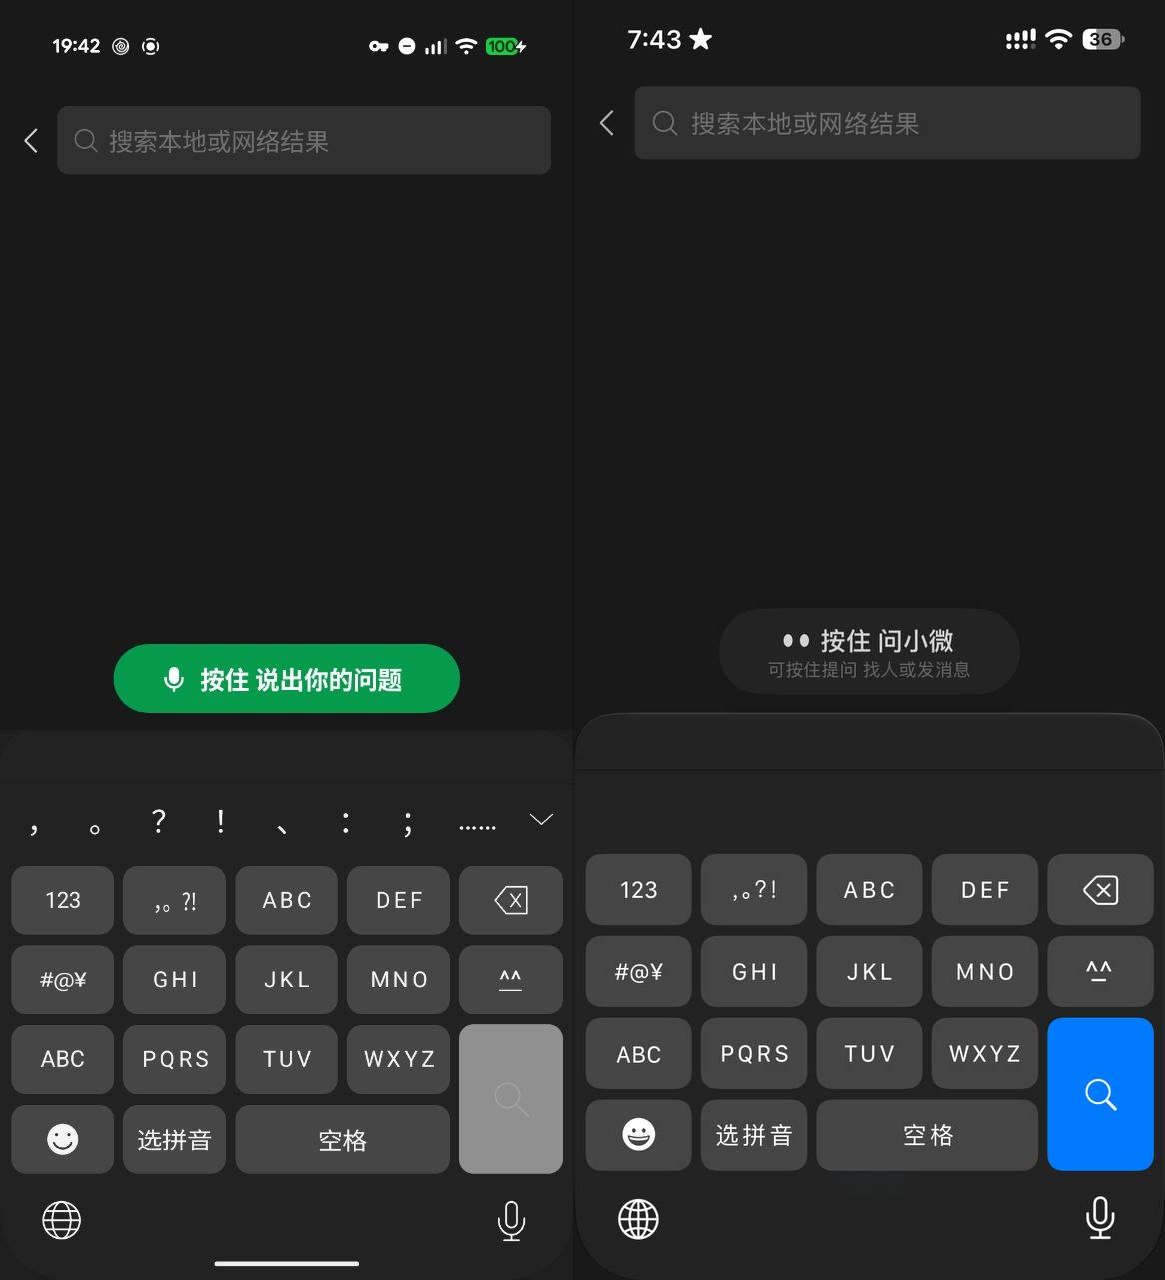
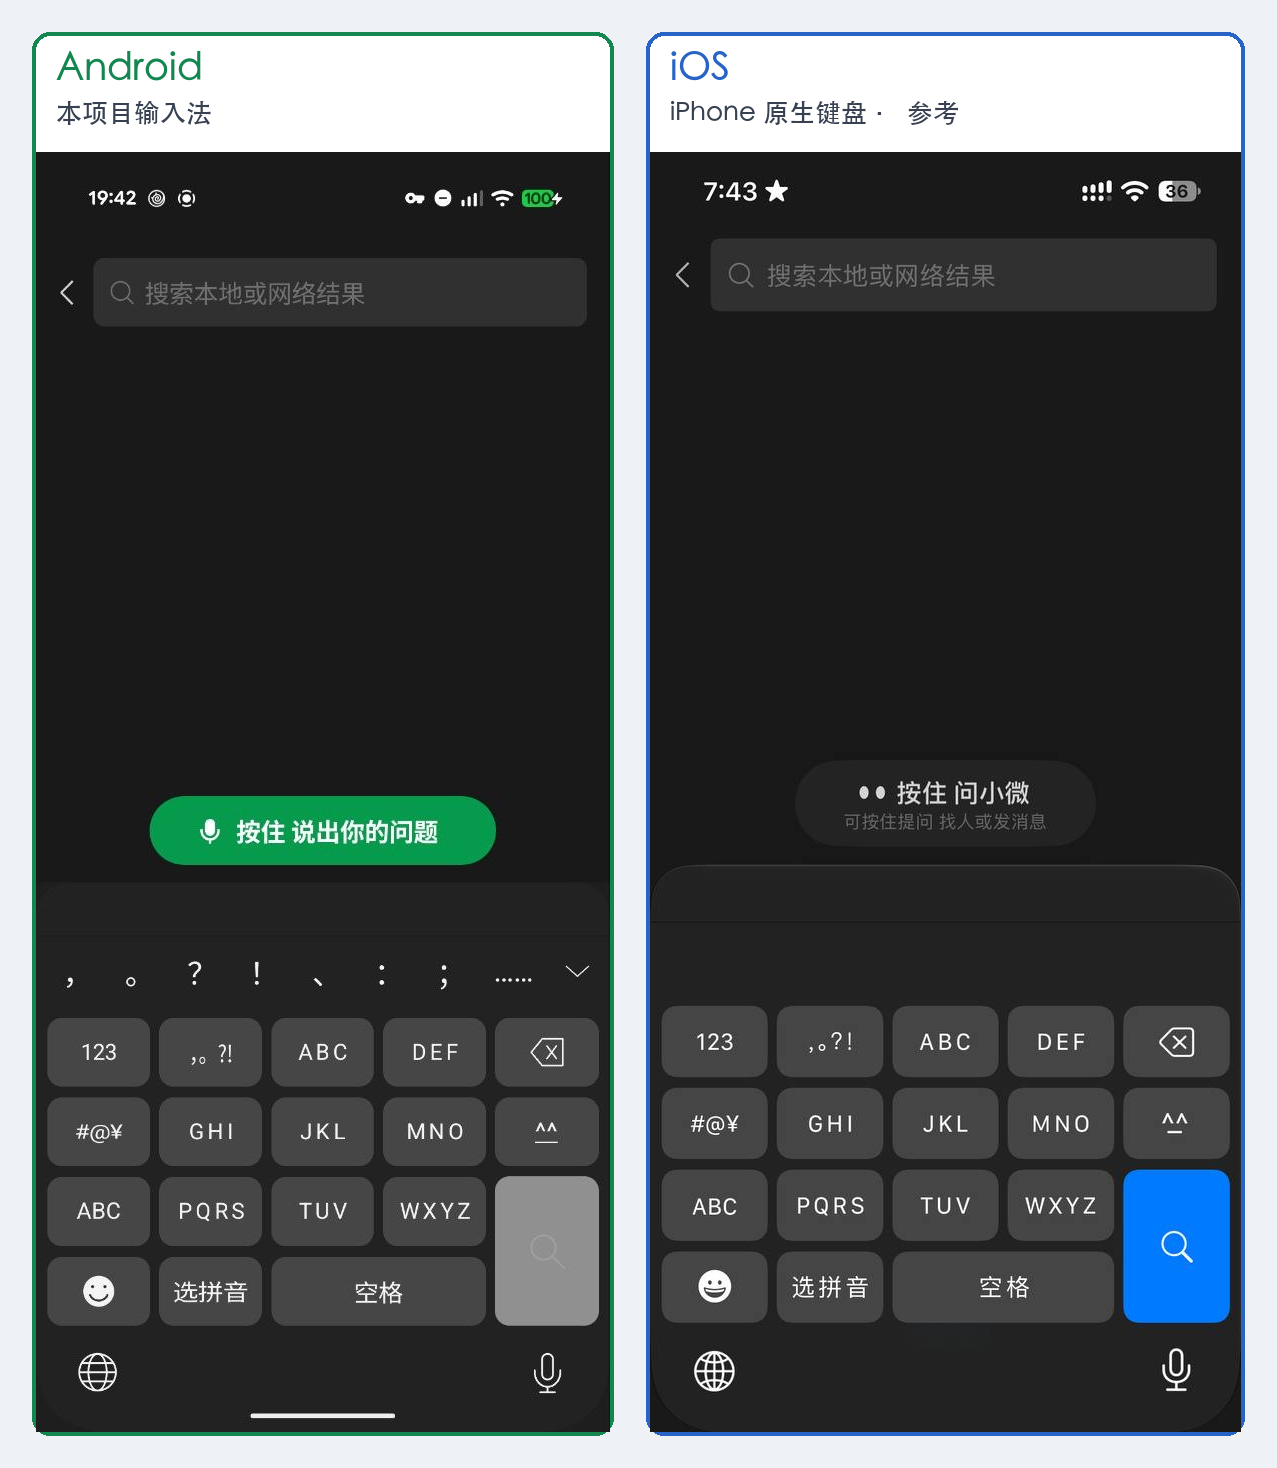
docs: label Android and iOS screenshot comparison

diff --git a/scripts/compose_keyboard_comparison.py b/scripts/compose_keyboard_comparison.py
@@ -1,10 +1,11 @@
 #!/usr/bin/env python3
 # SPDX-License-Identifier: GPL-3.0-or-later
-"""Join the two complete supplied screenshots, Android left and iOS right."""
+"""Frame and label complete screenshots without changing screenshot pixels."""
+import argparse
 import hashlib
 import json
 from pathlib import Path
-from PIL import Image, ImageChops
+from PIL import Image, ImageChops, ImageDraw, ImageFont
 
 ROOT = Path(__file__).resolve().parents[1]
 IMAGES = ROOT / 'docs/images'
@@ -15,25 +16,48 @@ def digest(path):
 
 
 def main():
+    parser = argparse.ArgumentParser(description=__doc__)
+    parser.add_argument('--font', type=Path, required=True, help='Local Chinese-capable font; not bundled')
+    args = parser.parse_args()
+    title_font = ImageFont.truetype(str(args.font), 38)
+    subtitle_font = ImageFont.truetype(str(args.font), 26)
     left_path = IMAGES / 'android-fullscreen.png'
     right_path = IMAGES / 'ios-fullscreen.png'
     left = Image.open(left_path).convert('RGB')
     right = Image.open(right_path).convert('RGB')
     assert left.height == right.height, 'Original screenshots must have equal height; never resize silently'
     hashes = {p.name: digest(p) for p in (left_path, right_path)}
-    canvas = Image.new('RGB', (left.width + right.width, left.height))
-    canvas.paste(left, (0, 0))
-    canvas.paste(right, (left.width, 0))
+    margin, gap, border, header = 32, 32, 4, 116
+    width = margin * 2 + gap + left.width + right.width + border * 4
+    height = margin * 2 + header + left.height + border * 2
+    canvas = Image.new('RGB', (width, height), '#eef1f5')
+    draw = ImageDraw.Draw(canvas)
+    boxes = []
+    x = margin
+    for source, platform, subtitle, color in (
+        (left, 'Android', '本项目输入法', '#148650'),
+        (right, 'iOS', 'iPhone 原生键盘 · 参考', '#2764c5'),
+    ):
+        card_width = source.width + border * 2
+        draw.rounded_rectangle((x, margin, x + card_width - 1, height - margin - 1),
+                               radius=18, fill=color)
+        draw.rounded_rectangle((x + border, margin + border, x + card_width - border - 1,
+                                margin + header + 24), radius=14, fill='#ffffff')
+        draw.text((x + 24, margin + 17), platform, font=title_font, fill=color)
+        draw.text((x + 24, margin + 67), subtitle, font=subtitle_font, fill='#374151')
+        image_x, image_y = x + border, margin + header + border
+        canvas.paste(source, (image_x, image_y))
+        boxes.append((image_x, image_y, image_x + source.width, image_y + source.height))
+        x += card_width + gap
     output = IMAGES / 'android-ios-comparison.png'
     canvas.save(output, optimize=True)
     saved = Image.open(output).convert('RGB')
-    left_box = (0, 0, left.width, left.height)
-    right_box = (left.width, 0, canvas.width, right.height)
+    left_box, right_box = boxes
     assert ImageChops.difference(saved.crop(left_box), left).getbbox() is None
     assert ImageChops.difference(saved.crop(right_box), right).getbbox() is None
     assert hashes == {p.name: digest(p) for p in (left_path, right_path)}
     metadata = {
-        'kind': 'two complete original screenshots joined side by side',
+        'kind': 'two complete original screenshots with external platform labels and borders',
         'generator': 'Pillow; no generative model',
         'output': {'file': output.name, 'width': canvas.width, 'height': canvas.height,
                    'bytes': output.stat().st_size, 'sha256': digest(output)},
@@ -45,7 +69,12 @@ def main():
                   'source_sha256': hashes[right_path.name], 'source_dimensions': list(right.size),
[1 lines of base64/hex data omitted]
                   'output_box': list(right_box)},
-        'cropped': False, 'resized': False, 'labels_added': False, 'ui_redrawn': False,
+        'cropped': False, 'resized': False, 'labels_added': True, 'ui_redrawn': False,
+        'layout': {'margin': margin, 'gap': gap, 'border': border, 'header': header,
+                   'left_label': 'Android / 本项目输入法',
+                   'right_label': 'iOS / iPhone 原生键盘 · 参考',
+                   'left_border': '#148650', 'right_border': '#2764c5',
+                   'font_name': args.font.name},
         'pixel_checks': {'saved_halves_equal_original_pixels': True, 'sources_unchanged': True},
     }
     (IMAGES / 'comparison.json').write_text(json.dumps(metadata, indent=2) + '\n')

diff --git a/docs/images/comparison-layout.md b/docs/images/comparison-layout.md
@@ -1,16 +1,17 @@
-# 完整截图直接拼接
+# 完整截图对照排版
 
-使用此次提供的两张完整截图：第一张Android，第二张iOS。两图高度均为1280像素，直接左右粘贴，合成1165×1280的PNG。
+使用此次提供的两张完整截图：第一张Android，第二张iOS。两图高度均为1280像素，原尺寸并排展示，合成1277×1468的PNG。
 
-- 左侧：`android-fullscreen.png`，574×1280。
-- 右侧：`ios-fullscreen.png`，591×1280。
-- 不裁剪、不缩放、不加标题、不调色、不重绘、不生成其他内容。
+- 左侧：`android-fullscreen.png`，574×1280；绿色边框，标注“Android / 本项目输入法”。
+- 右侧：`ios-fullscreen.png`，591×1280；蓝色边框，标注“iOS / iPhone 原生键盘 · 参考”。
+- 标题、边框和间隔均位于截图外；截图本身不裁剪、不缩放、不调色、不重绘。
 - 发布输入为原JPEG解码后的无损PNG，不包含原文件的额外元数据。
+- 标签使用本机字体渲染，字体文件不进入仓库或APK。
 
-复现：
+复现（Pillow版本见根目录的`requirements-visual.lock`，`--font`可指定本机支持中文的字体）：
 
 ```sh
-python3 scripts/compose_keyboard_comparison.py
+python3 scripts/compose_keyboard_comparison.py --font '/System/Library/Fonts/STHeiti Medium.ttc'
 ```
 
-脚本核对输出左右两半逐像素等于完整输入。来源尺寸、文件哈希和输出坐标见[comparison.json](comparison.json)。截图展示具体输入状态，不表示所有宿主行为或像素一致性已验收。
+脚本核对输出两个截图区域逐像素等于完整输入，并检查源PNG的SHA256未变。来源尺寸、文件哈希、标签和输出坐标见[comparison.json](comparison.json)。截图展示具体输入状态，不表示所有宿主行为或像素一致性已验收。

diff --git a/docs/COMPLIANCE.md b/docs/COMPLIANCE.md
@@ -26,4 +26,4 @@
 
 新增依赖或资源时记录官方来源、固定版本/commit、SHA256、作者、许可证、例外及修改。第三方原文保持原样；对授权范围不清的资源先核实再集成。
 
-发布APK时同时提供对应源码、构建材料、NOTICE、资源来源和验证范围；核对制品与源码版本，不提交签名私钥、个人输入、用户词库或私人完整参考原件。README包含此次提供的Android与iOS完整截图直接拼接，不裁剪、不缩放、不生成界面。iOS截图仅供文档参考，不随APK打包，不由根GPL许可证重新授权；来源、排版说明和哈希见[截图说明](images/README.md)。
+发布APK时同时提供对应源码、构建材料、NOTICE、资源来源和验证范围；核对制品与源码版本，不提交签名私钥、个人输入、用户词库或私人完整参考原件。README包含此次提供的Android与iOS完整截图并排展示，仅在截图外添加平台标注与边框，不裁剪、不缩放、不生成界面。iOS截图仅供文档参考，不随APK打包，不由根GPL许可证重新授权；来源、排版说明和哈希见[截图说明](images/README.md)。

diff --git a/docs/images/README.md b/docs/images/README.md
@@ -2,7 +2,7 @@
 
 ## 完整截图对照图
 
-[android-ios-comparison.png](android-ios-comparison.png)为README首图，直接拼接此次提供的两张完整截图：左为[Android](android-fullscreen.png)，右为[iOS](ios-fullscreen.png)。不裁剪、不缩放、不添加内容，不生成机身或编辑区。输出左右两半已逐像素核对完整输入，原文件保持只读。
+[android-ios-comparison.png](android-ios-comparison.png)为README首图，直接拼接此次提供的两张完整截图：左为[Android](android-fullscreen.png)，右为[iOS](ios-fullscreen.png)。截图外增加平台标题和边框：绿色为Android本项目输入法，蓝色为iOS原生键盘参考。截图本身不裁剪、不缩放、不调色、不重绘；输出中两个截图区域已逐像素核对完整输入，原文件保持只读。
 
 复现方式见[comparison-layout.md](comparison-layout.md)，来源尺寸与哈希见[comparison.json](comparison.json)。这些截图用于文档展示，不随APK打包，不由根GPL许可证重新授权，也不代表全部状态已验收。
 

diff --git a/docs/STATUS.md b/docs/STATUS.md
@@ -12,7 +12,7 @@
 | 前一fdc658b2 / 990b62cc制品，各自Pixel系统触屏 | 选拼音8/8、五态9/9、重显5/5、敏感删除36/36、异步队列20/20 PASS | [选拼音检查点](testing/PINYIN_ANDROID-20261024.md) |
 | 当前源码的主机验证 | 104 state、50 debug app、50 release app、45工具测试；构建/lint及两实际APK静态审计PASS | [版本检查点](testing/evidence/m5/configuration-final-checkpoint.json) |
 
-以上结果绑定各自APK、测试包与执行范围，不将旧制品成绩直接转移到新制品。README首图为两张完整Android/iOS截图直接拼接，没有裁剪、缩放或重绘，详见[图片来源](images/README.md)。
+以上结果绑定各自APK、测试包与执行范围，不将旧制品成绩直接转移到新制品。README首图为两张完整Android/iOS截图并排展示，截图外有平台标注与绿色/蓝色边框，截图本身没有裁剪、缩放或重绘，详见[图片来源](images/README.md)。
 
 ## 已知限制
 

diff --git a/README.md b/README.md
@@ -5,10 +5,10 @@
 一款基于 Trime/Rime 与万象的开源 Android 输入法。支持九键拼音、选拼音、英文、数字、符号和 Emoji，词库与输入引擎在本机离线运行。
 
 <p align="center">
-  <img src="docs/images/android-ios-comparison.png" width="1000" alt="两张完整截图直接左右拼接：左侧 Android，右侧 iOS；未裁剪、未缩放、未重绘" />
+  <img src="docs/images/android-ios-comparison.png" width="1000" alt="真实截图对照：绿色边框为 Android 本项目输入法，蓝色边框为 iOS 原生键盘参考；截图未裁剪、未缩放、未重绘" />
 </p>
 
-<p align="center"><b>左：Android　｜　右：iOS</b></p>
+<p align="center"><b>左：Android · 本项目输入法　｜　右：iOS · 原生键盘参考</b></p>
 
 ## 功能
 
